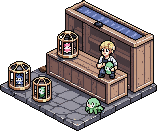
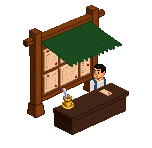
Retire the Sell button, and give Sella and Odo stalls that match what they sell
Sell has paid nothing since gold was wiped -- it deleted the item you tapped it on and
called it a sale, which is a second Discard button wearing a word that promised payment.
The satchel line that read "42g" is gone with it; an item now shows what the auction
values it at, which is a number that still means something.

New PixelLab art for the two stalls that changed trade: Sella's armour rack is now a
cosmetics stall with dyed cloaks, a mirror and a case of violet diamonds, and Odo's
menagerie is a notice board of pinned bounties under a green awning. Both keep the awning
colours their signs already use.

Claude-Session: https://claude.ai/code/session_01C9W6JpERPs1qPAn1zdNzeP

diff --git a/11_ui.js b/11_ui.js
@@ -1134,7 +1134,9 @@ function paintInv(){ const ch=curChar(); if(!ch||!rpg)return;
  const it=ch.inv[invSelIdx];
  if(it){ let html='<b style="color:'+itemRarCol(it)+'">'+itemName(it)+'</b>';
   if(it.rar) html+=' <span style="color:'+RAR_COL[it.rar]+'">('+RAR_NAMES[it.rar]+')</span>';
-  html+=' · '+itemValue(it)+'g';
+  // was a gold price, which has been unspendable and unearnable since gold was wiped. The auction
+  // still values items, so show THAT -- what the house would ask for it, not what you could get.
+  if(typeof itemGlory==='function') html+=' · worth '+itemGlory(it)+'✦ at auction';
   if(it.k!=='pot'&&!canEquip(it,ch)) html+=' · <span style="color:#c04a3d">wrong class</span>';
   if(it.k!=='pot'){ const s2=itemStats(it,ch.cls); let sl='';
    for(const k of STATS){ if(s2[k]) sl+='<span style="color:'+STAT_META[k].col+'">+'+s2[k]+' '+STAT_META[k].s+'</span> '; }
@@ -1142,7 +1144,6 @@ function paintInv(){ const ch=curChar(); if(!ch||!rpg)return;
   $s('invSel').innerHTML=html;
  } else $s('invSel').textContent='Tap an item';
  $s('invEquip').style.display = (it&&canEquip(it,ch)) ? '' : 'none';
- $s('invSell').style.display = it? '':'none';
  $s('invDrop').style.display = it? '':'none';
 }
 $s('invBtn').addEventListener('click',openInv);
@@ -1186,10 +1187,7 @@ $s('invEquip').addEventListener('click',()=>{ const ch=curChar(); if(!ch)return;
  ch.inv.splice(invSelIdx,1); if(r.old) ch.inv.push(r.old);
  invSelIdx=-1; saveRPG(); paintInv();
  msg(nm,'equipped'); });
-$s('invSell').addEventListener('click',()=>{ const ch=curChar(); if(!ch)return;
- const it=ch.inv[invSelIdx]; if(!it) return;
- ch.inv.splice(invSelIdx,1); invSelIdx=-1;
- saveRPG(); hudRPG(); paintInv(); });
+// (no Sell handler: see index.html — with gold gone it paid nothing and only destroyed the item)
 $s('invDrop').addEventListener('click',()=>{ const ch=curChar(); if(!ch)return;
  const it=ch.inv[invSelIdx]; if(!it) return;
  if(it.k==='wpn'&&it.t>=6&&!confirm('Discard '+itemName(it)+'?')) return;

diff --git a/index.html b/index.html
@@ -236,7 +236,8 @@
    <div class="mnote" id="invSel" style="min-height:24px;color:#d8d2c8;">Tap an item</div>
    <div id="invActs">
     <button class="mbtn dev" id="invEquip">Equip</button>
-    <button class="mbtn dev" id="invSell">Sell</button>
+    <!-- no Sell: gold is gone, nothing buys items back, and the button did nothing but destroy
+         what you tapped it on -- a second Discard wearing a word that promised payment -->
     <button class="mbtn dev" id="invDrop">Discard</button>
    </div>
   </div>

diff --git a/sw.js b/sw.js
@@ -1,4 +1,4 @@
-const CACHE = 'emberrealm-v308';
+const CACHE = 'emberrealm-v309';
 const ASSETS = ['.', 'index.html', 'manifest.webmanifest', 'icon-192.png', 'icon-512.png'];
 
 self.addEventListener('install', e => {
